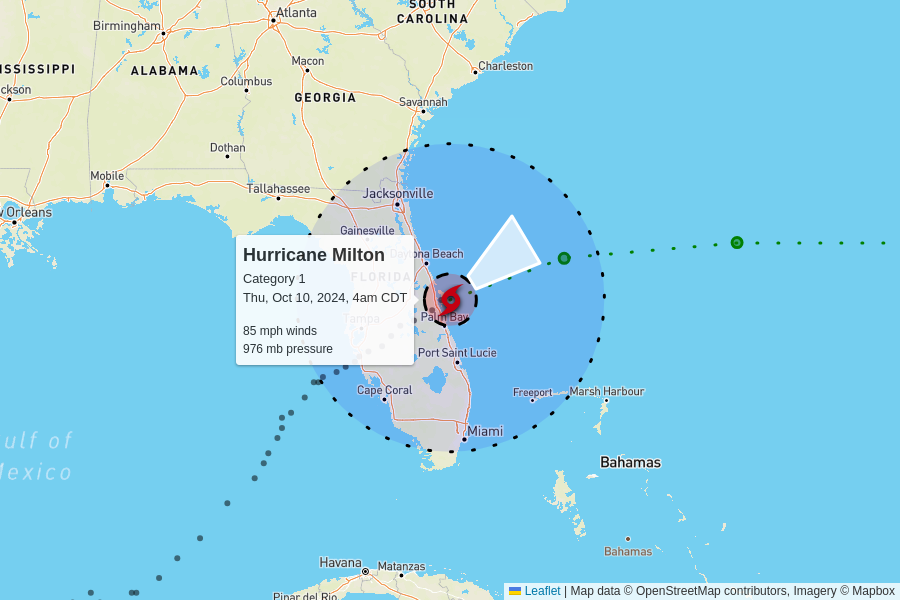
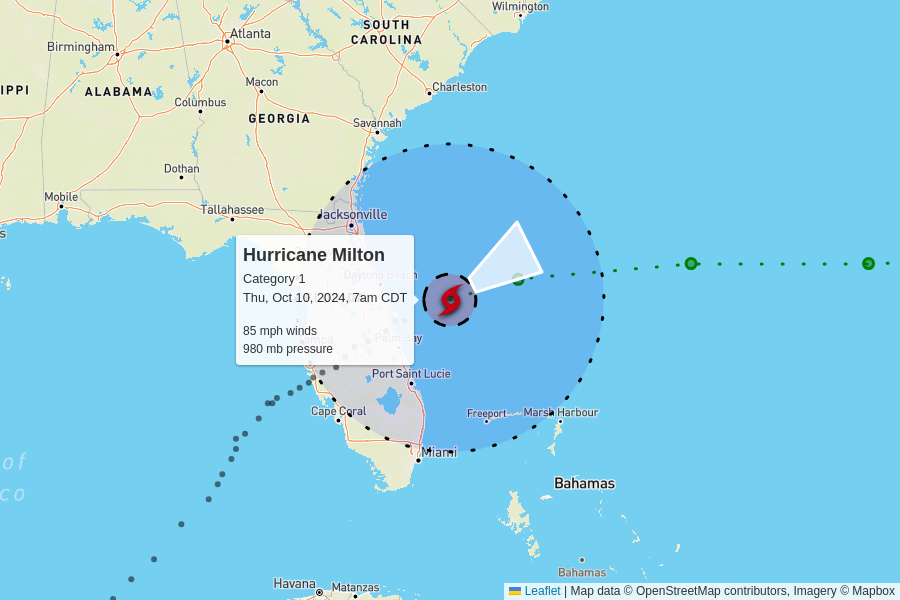
automatic update

diff --git a/docs/index.html b/docs/index.html
@@ -104,7 +104,7 @@
         <td colspan="6" class="storm category-1" >
           <h2>
             Hurricane Milton - Category 1
-            <p class="updated">last updated <span data-time>2024-10-10T09:00:00.000Z</span></p>
+            <p class="updated">last updated <span data-time>2024-10-10T12:00:00.000Z</span></p>
           </h2>
         </td>
       </tr>
@@ -120,11 +120,11 @@
       <tr>
         <td class="spacer"></td>
         <td>85 mph<br>0 mph since last update</td>
-        <td>976 mb<br>-1 mb since last update</td>
+        <td>980 mb<br>+4 mb since last update</td>
         <td>
-          18 mph to the northeast
+          18 mph to the east-northeast
           <br/>
-          <span style="display: inline-block; font-size: 1.5em; transform: rotate(55deg);">↑</span>
+          <span style="display: inline-block; font-size: 1.5em; transform: rotate(60deg);">↑</span>
         </td>
         <td><a href="https://raw.githubusercontent.com/mgwalker/atlantic-hurricanes/main/data/csv/AL142024.csv">AL142024.csv</a></td>
         <td><a href="https://www.nhc.noaa.gov/archive/2024/MILTON.shtml?">NHC advisories</a></td>
